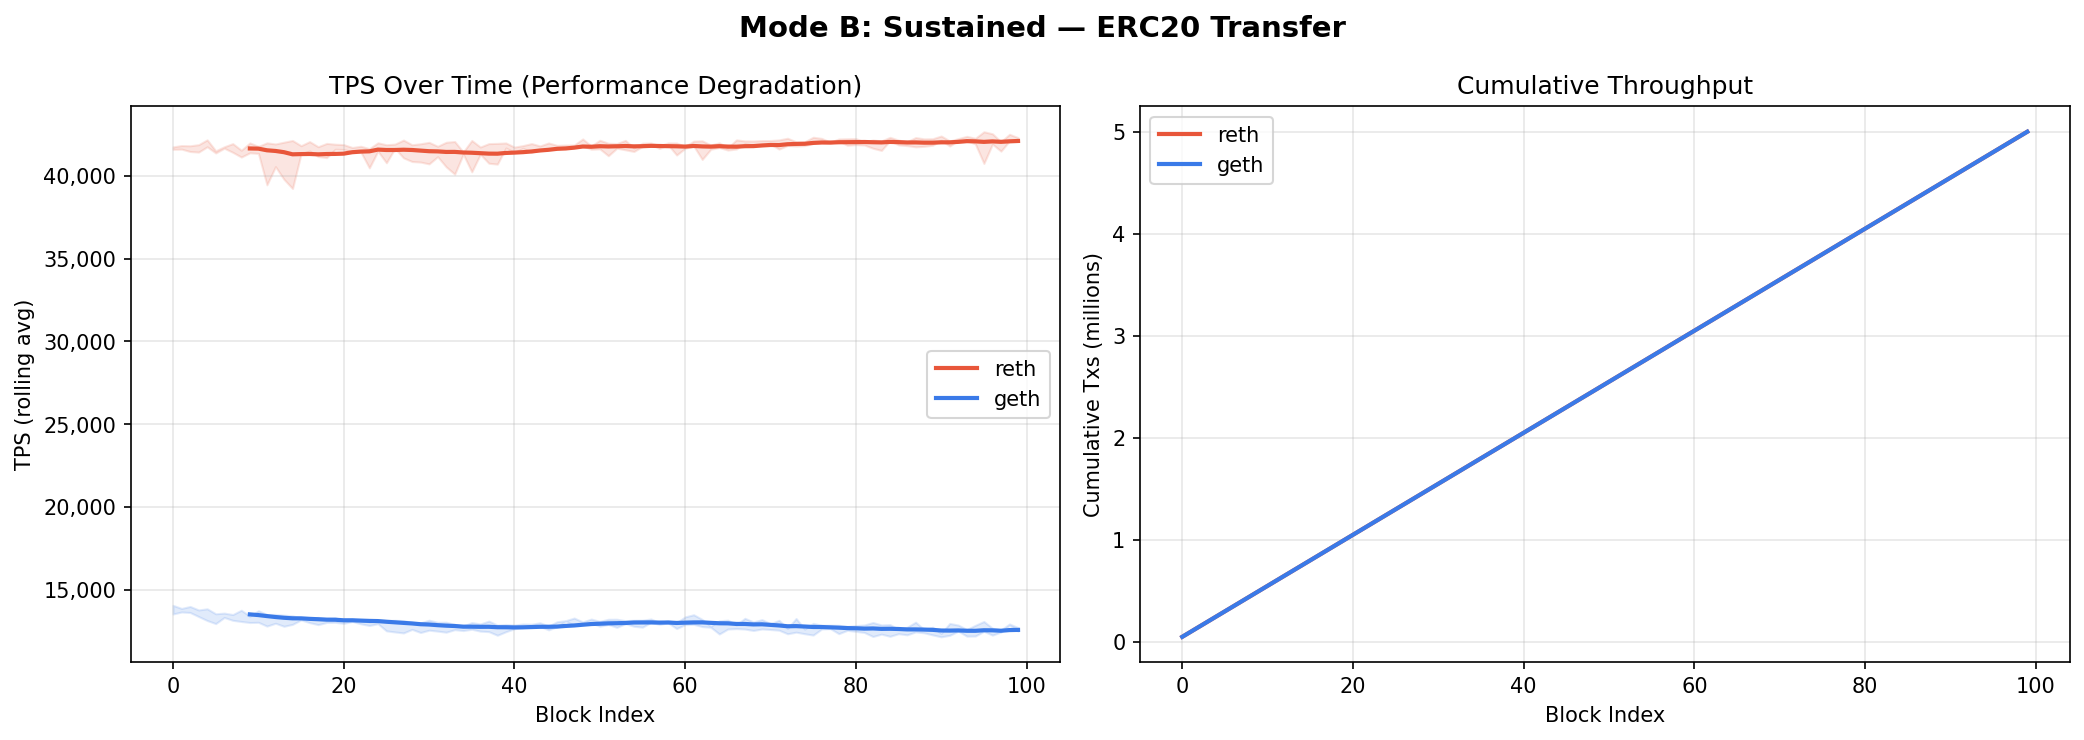
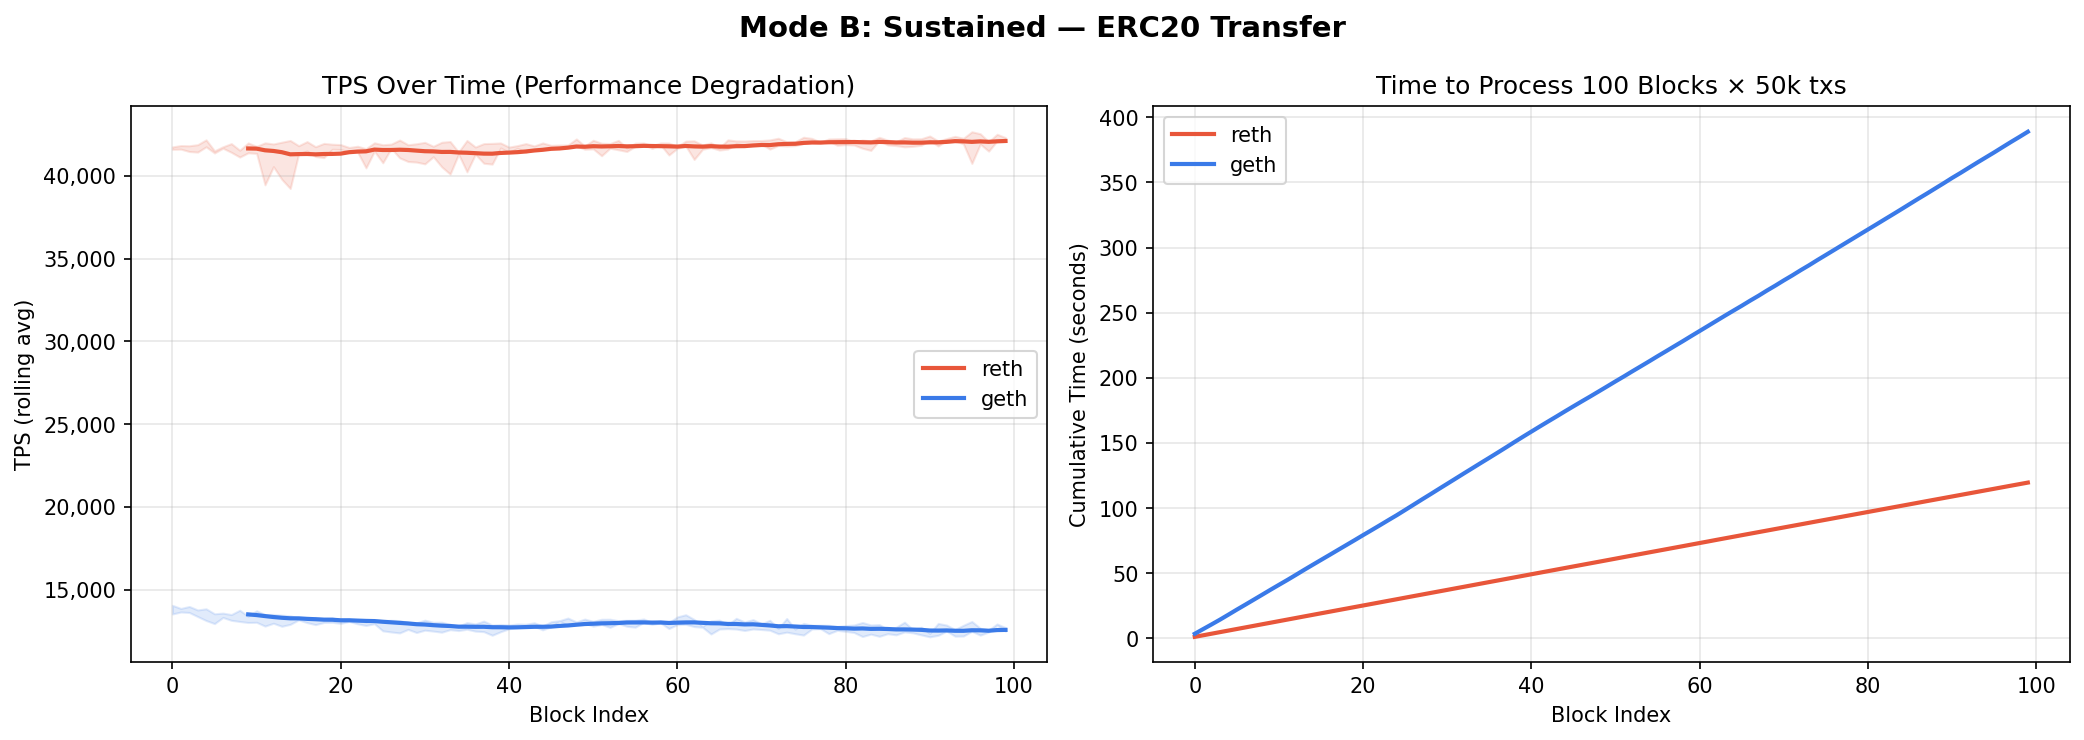
fix(bench): fix sustained chart (cumulative time, not txs) and summary labels
- Sustained right panel: changed from cumulative txs (identical for both
  engines since both process 100×50k blocks) to cumulative wall-clock time,
  clearly showing reth processes the same workload 3-4x faster
- Summary chart: removed rotated labels for cleaner readability
- Fixed deprecated matplotlib boxplot labels parameter

diff --git a/local-test/generate_report.py b/local-test/generate_report.py
@@ -187,15 +187,15 @@ def plot_sustained(data):
                 alpha=0.15, color=COLORS[engine]
             )
 
-            # Cumulative throughput
-            cumulative_txs = []
-            txs_sum = 0
+            # Cumulative wall-clock time (shows how fast each engine processes the same workload)
+            cumulative_time = []
+            time_sum = 0
             for run in runs[:1]:  # First run
                 for b in run:
-                    txs_sum += b["tx_count"]
-                    cumulative_txs.append(txs_sum)
-            if cumulative_txs:
-                ax2.plot(range(len(cumulative_txs)), [t / 1e6 for t in cumulative_txs],
+                    time_sum += b["total_ms"]
+                    cumulative_time.append(time_sum)
+            if cumulative_time:
+                ax2.plot(range(len(cumulative_time)), [t / 1000 for t in cumulative_time],
                          label=engine, color=COLORS[engine], linewidth=2)
 
         ax1.set_xlabel("Block Index")
@@ -206,8 +206,8 @@ def plot_sustained(data):
         ax1.get_yaxis().set_major_formatter(ticker.FuncFormatter(lambda x, _: f"{x:,.0f}"))
 
         ax2.set_xlabel("Block Index")
-        ax2.set_ylabel("Cumulative Txs (millions)")
-        ax2.set_title("Cumulative Throughput")
+        ax2.set_ylabel("Cumulative Time (seconds)")
+        ax2.set_title("Time to Process 100 Blocks × 50k txs")
         ax2.legend()
         ax2.grid(True, alpha=0.3)
 
@@ -307,7 +307,7 @@ def plot_openloop(data):
             colors.append(COLORS[engine])
 
         if box_data:
-            bp = ax.boxplot(box_data, labels=labels, patch_artist=True, showfliers=False)
+            bp = ax.boxplot(box_data, tick_labels=labels, patch_artist=True, showfliers=False)
             for patch, color in zip(bp["boxes"], colors):
                 patch.set_facecolor(color)
                 patch.set_alpha(0.7)
@@ -386,8 +386,8 @@ def plot_summary(exec_data, sustained_data, openloop_data):
     bars2 = ax.bar(x + width / 2, geth_vals, width, label="geth", color=COLORS["geth"],
                    edgecolor="black", linewidth=0.5)
 
-    ax.bar_label(bars1, fmt="{:,.0f}", fontsize=8, rotation=45)
-    ax.bar_label(bars2, fmt="{:,.0f}", fontsize=8, rotation=45)
+    ax.bar_label(bars1, fmt="{:,.0f}", fontsize=9, fontweight="bold", padding=3)
+    ax.bar_label(bars2, fmt="{:,.0f}", fontsize=9, fontweight="bold", padding=3)
 
     ax.set_ylabel("TPS")
     ax.set_xticks(x)

diff --git a/bench-results/report/benchmark_report.md b/bench-results/report/benchmark_report.md
@@ -1,6 +1,6 @@
 # morph-reth vs morph-geth Execution Benchmark Report
 
-**Generated**: 2026-04-09 18:11
+**Generated**: 2026-04-09 18:20
 
 ## 1. Test Environment
 
@@ -77,7 +77,7 @@ Measures only `assembleL2Block` + `newL2Block` time. Transaction submission is e
 
 | Engine | Workload | Median TPS | P95 TPS | Peak TPS | Mgas/s | Stddev |
 |--------|----------|-----------|---------|----------|--------|--------|
-| geth | erc20-transfer | 18,370 | 22,535 | 23,778 | 627 | ±3,095 |
+| geth | erc20-transfer | 16,995 | 22,423 | 23,778 | 583 | ±728 |
 | geth | eth-transfer | 26,911 | 30,745 | 35,301 | 554 | ±422 |
 | reth | erc20-transfer | 68,806 | 87,613 | 105,957 | 2,352 | ±2,122 |
 | reth | eth-transfer | 73,110 | 81,495 | 140,596 | 1,493 | ±4,552 |
@@ -91,7 +91,7 @@ Measures only `assembleL2Block` + `newL2Block` time. Transaction submission is e
 | Mode | Workload | reth TPS | geth TPS | reth/geth |
 |------|----------|---------|---------|-----------|
 | Openloop | eth-transfer | 73,110 | 26,911 | **2.7x** |
-| Openloop | erc20-transfer | 68,806 | 18,370 | **3.7x** |
+| Openloop | erc20-transfer | 68,806 | 16,995 | **4.0x** |
 
 ### Key Findings
 
